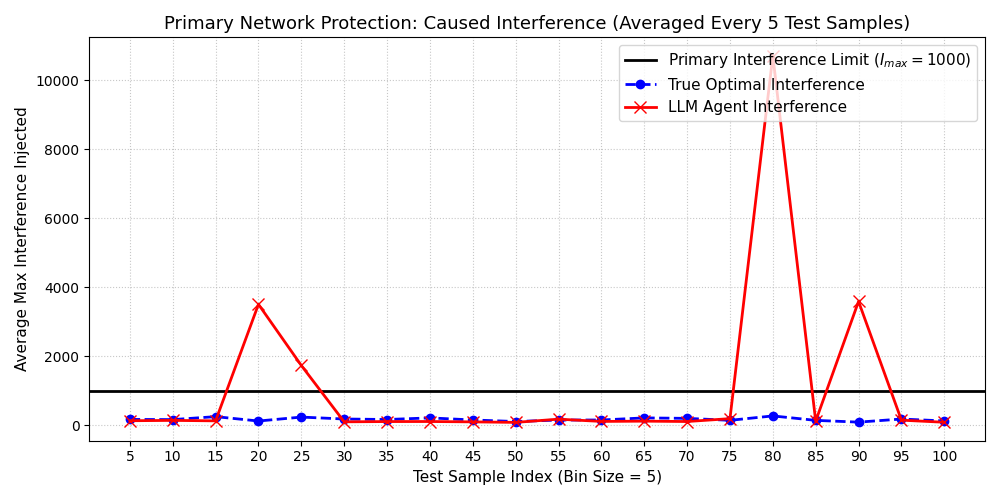
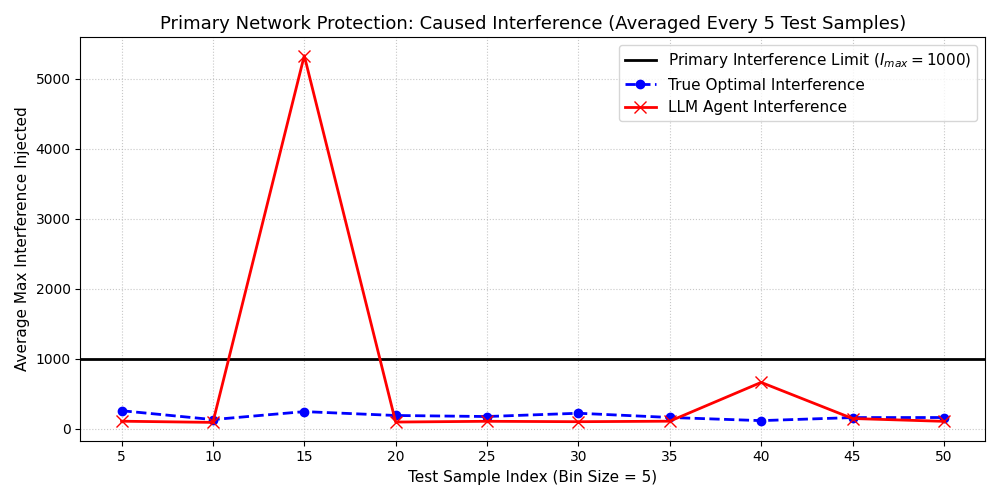
seee

diff --git a/5Agents_work_on_power_alloc/tmantik.py b/5Agents_work_on_power_alloc/tmantik.py
@@ -496,8 +496,8 @@ workflow.add_conditional_edges(
 app = workflow.compile()
 
 data = gen_channels(190)
-train = data[:90]
-test = data[90:190]
+train = data[:100]
+test = data[100:150]
 
 prompt_secondary_allocation = build_prompt(train)
 
